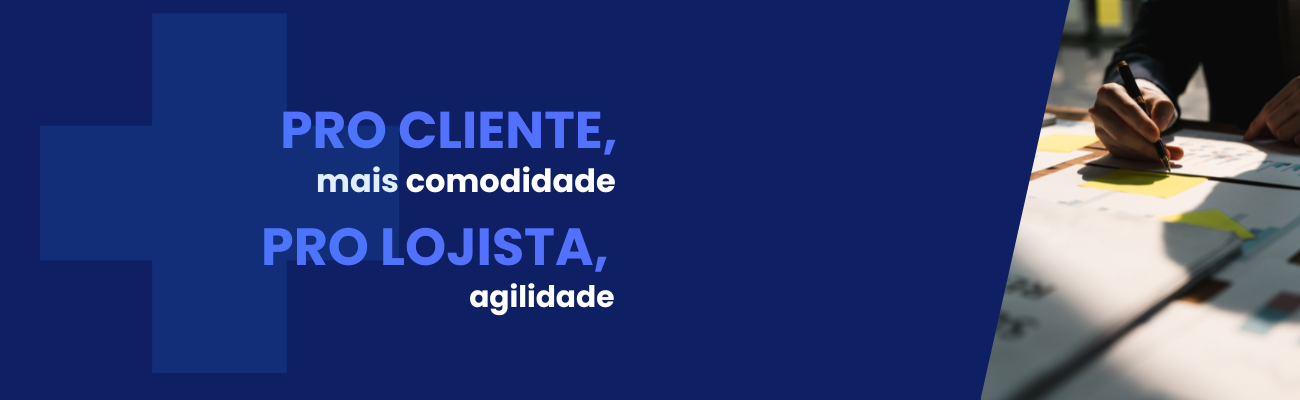
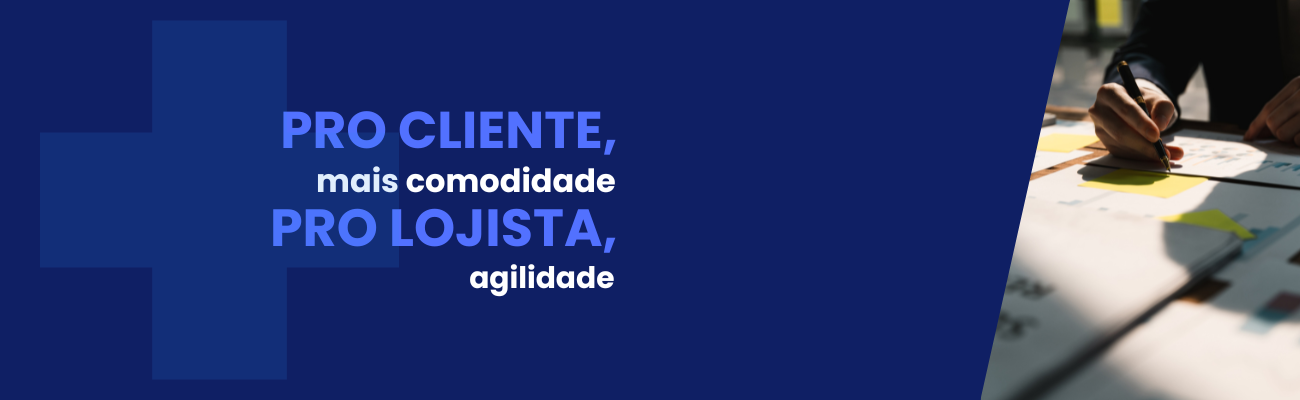
Criação de Novas Imagens
Criado nova imagens para mobile.

Changed region(s): [[0.1846, 0.51, 0.4923, 0.78]]

diff --git a/inicio/index.html b/inicio/index.html
@@ -14,19 +14,26 @@
 <body>
     <header>
         <section class="imagens-section">
-            <section id="imagens-section">
+            <section id="imagens-section" class="desktop">
                 <section class="imagem-container" >
-                    <section class="background-image imagem-atual "  class="imagem-atual drogariacapa" style="background-image: url('../imagens/farmacia-capa.png');">
+                    <section class="background-image imagem-atual"  class="imagem-atual drogariacapa" style="background-image: url('../imagens/farmacia-capa.png');"></section>
                     </section>
+                <section class="imagem-container">
+                    <section class="background-image imagem-oculta" class="imagem-oculta" style="background-image: url('../imagens/gestao-capa.png');"></section>
+                </section>
+                <section class="imagem-container" >
+                    <section class="background-image imagem-oculta linxptudo" style="background-image: url('../imagens/cliente-lojista-capa.png');"></section>
+                    </section>
+            </section>
+            <section id="imagens-section" class="mobile">
+                <section class="imagem-container" >
+                    <section class="background-image imagem-atual "  class="imagem-atual drogariacapa" style="background-image: url('../imagens/farmacia-capa-mobile.png');"></section>
                 </section>
                 <section class="imagem-container">
-                    <section class="background-image imagem-oculta" class="imagem-oculta" style="background-image: url('../imagens/gestao-capa.png');">
-                    </section>
+                    <section class="background-image imagem-oculta " class="imagem-oculta" style="background-image: url('../imagens/gestao-capa-mobile.png');"></section>
                 </section>
                 <section class="imagem-container" >
-                    <section class="background-image imagem-oculta linxptudo" style="background-image: url('../imagens/cliente-lojista-capa.png');">
-                    </section>
-                    </a>
+                    <section class="background-image imagem-oculta linxptudo " style="background-image: url('../imagens/cliente-lojista-capa-mobile.png');"></section>
                 </section>
             </section>
             <section class="seta seta-esquerda"><span class="material-symbols-outlined">arrow_back_ios</span></section>

diff --git a/inicio/estilo-index.css b/inicio/estilo-index.css
@@ -1,6 +1,12 @@
 ::-webkit-scrollbar {
     width: 0px;  
 }
+.mobile{
+    display: none;
+}
+.desktop{
+    display: block;
+}
 html {
     scrollbar-width: none;
 }
@@ -67,10 +73,10 @@ main{
     background-color: #fff; /* Cor de fundo para o indicador ativo */
 }
 .imagem-oculta{
-    display: none;
+    display: none !important;
 }
 .imagens-section {
-    display: block;
+    display: block !important; 
 }
 .imagem-atual{
     display: block;
@@ -302,6 +308,12 @@ footer p{
 
 
 @media screen and (max-width: 500px) {
+    .mobile{
+        display: block;
+    }
+    .desktop{
+        display: none;
+    }
     main{
         width: 95%;
     }

diff --git a/JS/index.js b/JS/index.js
@@ -1,4 +1,5 @@
 document.addEventListener('DOMContentLoaded', function () {
+
     const imagensSection = document.getElementById('imagens-section');
     const imagens = document.querySelectorAll('.imagens-section .background-image');
     const setaEsquerda = document.querySelector('.seta-esquerda');
@@ -123,3 +124,4 @@ document.addEventListener('DOMContentLoaded', function () {
         });
     }
 });
+
